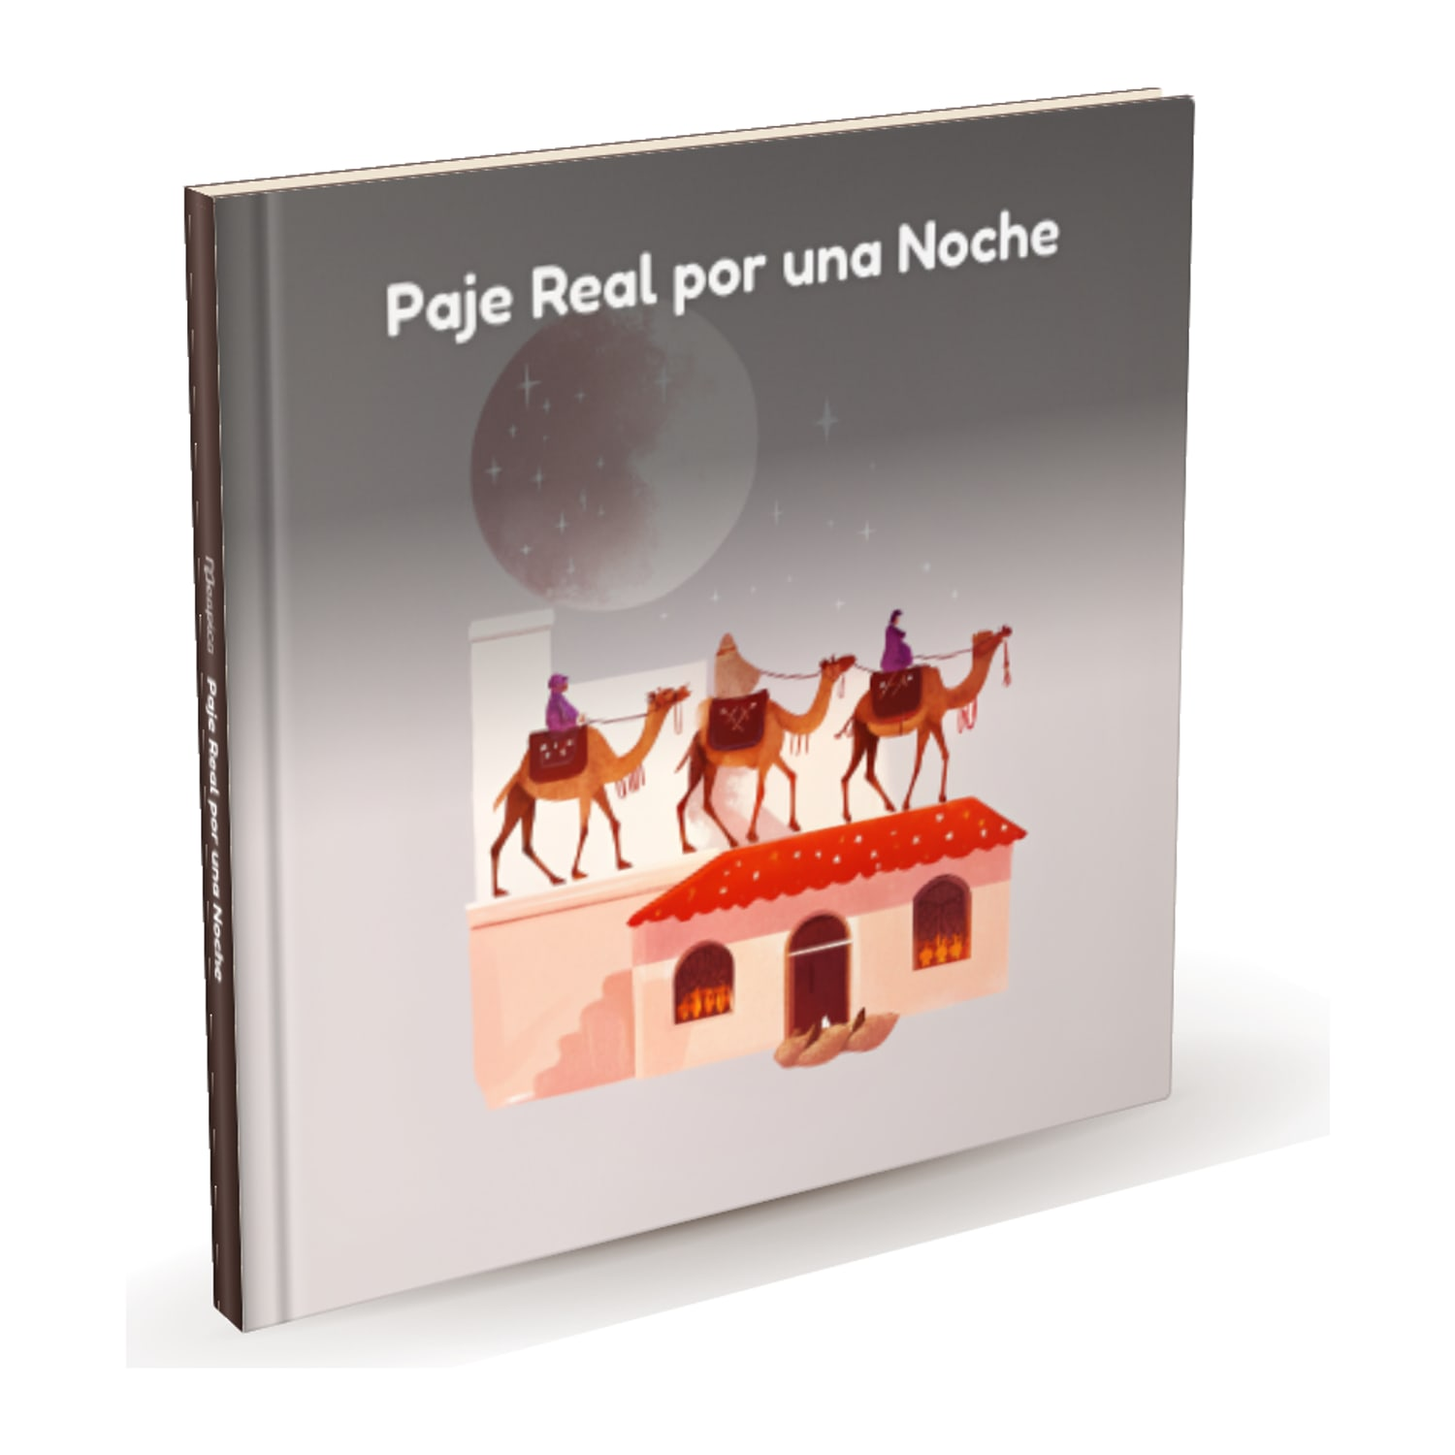
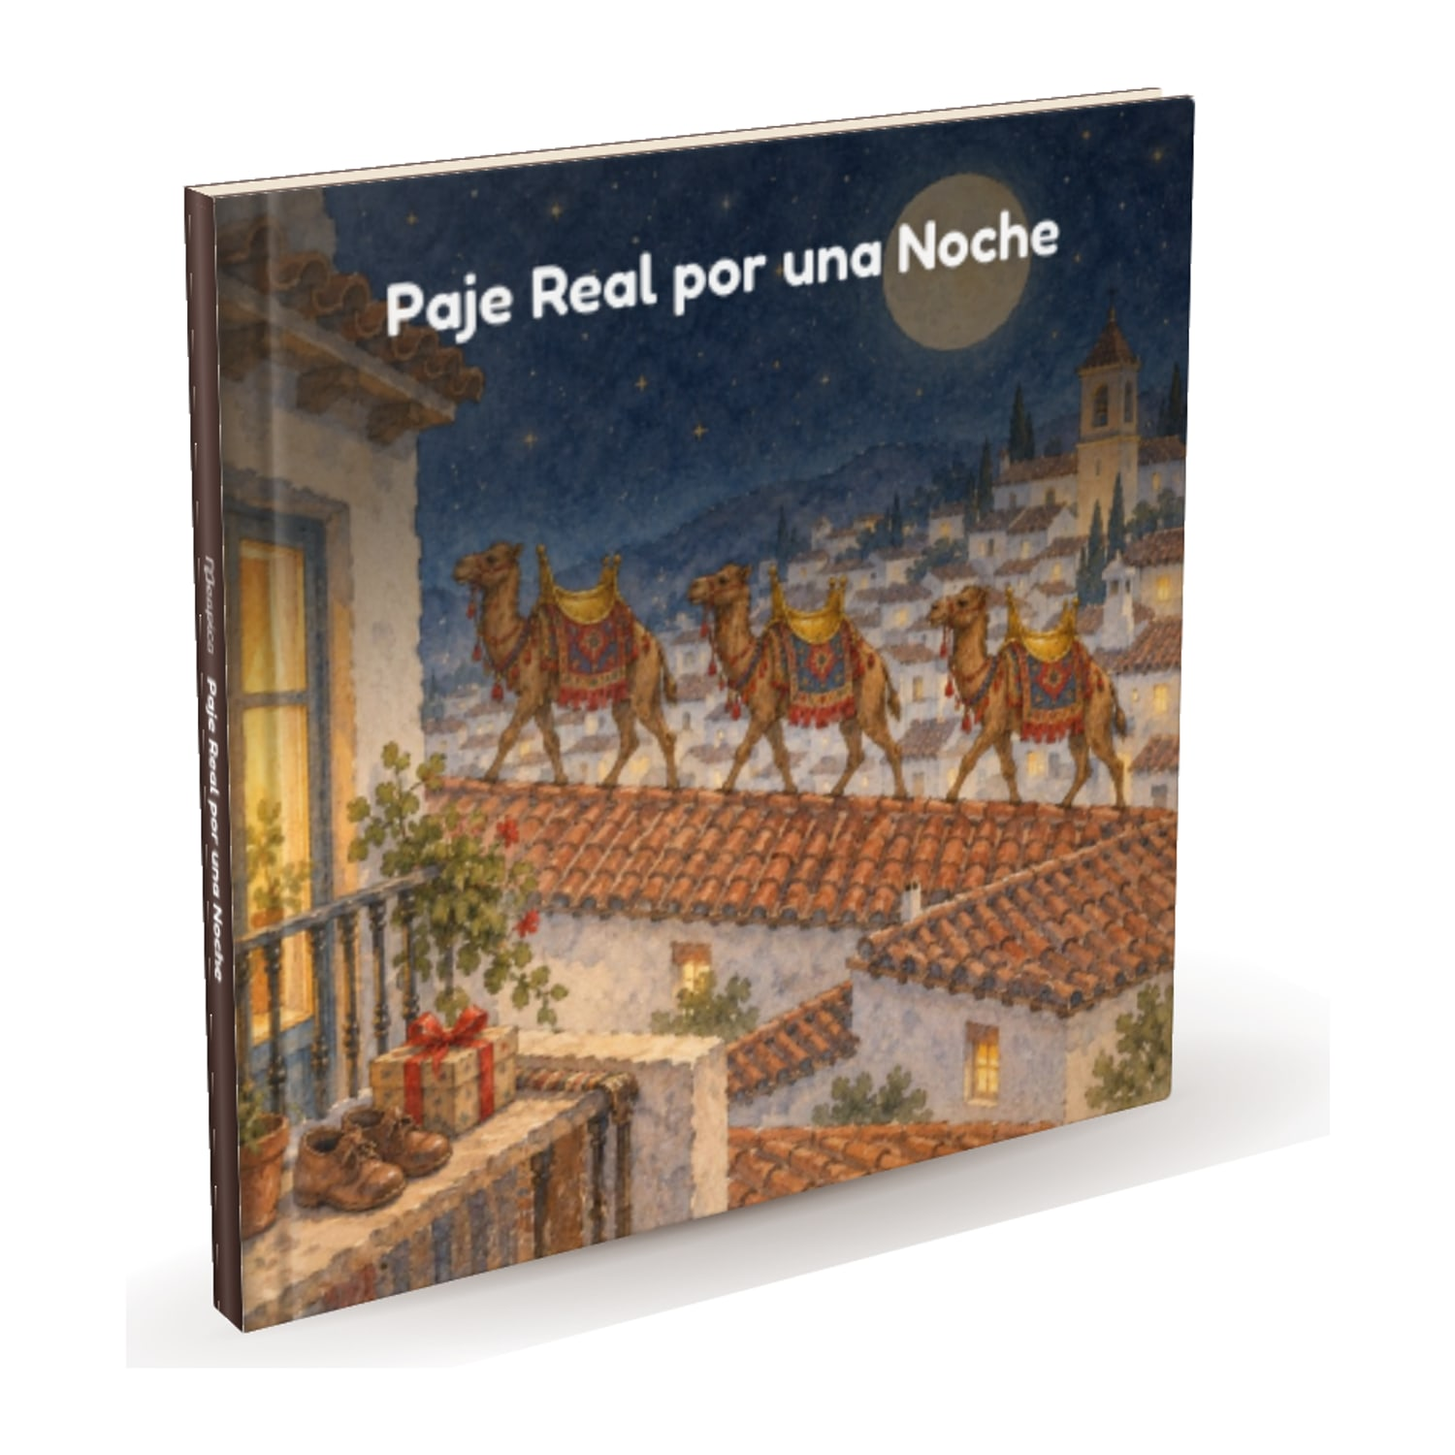
feat(seasonal): Papá Noel and Tió editions on the Christmas page and in the feed
- SeasonalEdition (was ReyesEdition) takes the world and its copy key;
  /gifts/christmas leads with Papá Noel and shows the Papá Noel and Tió
  editions with both printed prices (VAT included)
- Merchant feed: SEASONAL_FEED_WORLDS (christmas, tio, reyes), 21 items in
  season; feed images for both new worlds, check-merchant-feed covers every
  seasonal edition and its window
- Reyes world cover repainted in the watercolour style of the new covers
- es/ca/en/fr copy, docs

diff --git a/src/components/seo-landing/SeasonalEdition.tsx b/src/components/seo-landing/SeasonalEdition.tsx
@@ -14,23 +14,36 @@ const INTL_LOCALE: Record<string, string> = { es: "es-ES", ca: "ca-ES", en: "en-
 const PRINTED_FORMATS = ["hardcover", "softcover"] as const;
 
 /**
- * The seasonal Reyes edition as a product on the Reyes gift page: the story, who it is
- * for, until when it can be ordered and the price of each printed format (VAT included).
+ * A seasonal edition (Reyes, Papá Noel, Tió) as a product on its gift page: the story, who it
+ * is for, until when it can be ordered and the price of each printed format (VAT included).
  * Every fact comes from the catalogue (STORY_TEMPLATES, PRICING); the copy is
- * seo.gifts.three-kings.edition. The caller renders it only while the world is on sale
+ * `seo.gifts.<gift>.<copyKey>`. The caller renders it only while the world is on sale
  * (isTemplateAvailable), so it disappears by itself the day after `availableUntil`.
- * It is also the landing page of the Reyes items in the Merchant feed (lib/merchant-feed.ts):
- * keep the story title and both printed prices visible here.
+ * It is also the landing page of the edition's items in the Merchant feed (lib/merchant-feed.ts,
+ * SEASONAL_FEED_WORLDS): keep the story title and both printed prices visible here.
  */
-export default async function ReyesEdition({ locale }: { locale: string }) {
-  const template = getTemplateConfig(REYES_TEMPLATE_ID);
+export default async function SeasonalEdition({
+  locale,
+  templateId,
+  gift,
+  copyKey = "edition",
+  tinted = false,
+}: {
+  locale: string;
+  templateId: string;
+  gift: string;
+  copyKey?: string;
+  /** White band with the art on the right, to alternate with a paper edition on the same page. */
+  tinted?: boolean;
+}) {
+  const template = getTemplateConfig(templateId);
   if (!template) return null;
-  const t = await getTranslations({ locale, namespace: "seo.gifts.three-kings.edition" });
+  const t = await getTranslations({ locale, namespace: `seo.gifts.${gift}.${copyKey}` });
   const td = await getTranslations({ locale, namespace: "data" });
   const tp = await getTranslations({ locale, namespace: "pricing" });
   const th = await getTranslations({ locale, namespace: "hero" });
 
-  const title = td(`templates.${REYES_TEMPLATE_ID}.title`);
+  const title = td(`templates.${templateId}.title`);
   const until = template.availableUntil
     ? new Intl.DateTimeFormat(INTL_LOCALE[locale] ?? "es-ES", { timeZone: "UTC", day: "numeric", month: "long" }).format(
         new Date(`${template.availableUntil}T00:00:00Z`),
@@ -38,9 +51,23 @@ export default async function ReyesEdition({ locale }: { locale: string }) {
     : null;
 
   return (
-    <section id="reyes-edition" aria-labelledby="reyes-edition-title" className="border-t border-line bg-paper px-4 py-16 sm:px-6 sm:py-24">
-      <div className="mx-auto grid max-w-[1200px] items-center gap-8 md:grid-cols-[minmax(0,5fr)_minmax(0,7fr)] md:gap-12 lg:gap-16">
-        <div className="relative mx-auto aspect-square w-full max-w-[300px] overflow-hidden rounded-2xl border-2 border-line bg-line md:max-w-none">
+    <section
+      id={`${templateId}-edition`}
+      aria-labelledby={`${templateId}-edition-title`}
+      className={cx("border-t border-line px-4 py-16 sm:px-6 sm:py-24", tinted ? "bg-surface" : "bg-paper")}
+    >
+      <div
+        className={cx(
+          "mx-auto grid max-w-[1200px] items-center gap-8 md:gap-12 lg:gap-16",
+          tinted ? "md:grid-cols-[minmax(0,7fr)_minmax(0,5fr)]" : "md:grid-cols-[minmax(0,5fr)_minmax(0,7fr)]",
+        )}
+      >
+        <div
+          className={cx(
+            "relative mx-auto aspect-square w-full max-w-[300px] overflow-hidden rounded-2xl border-2 border-line bg-line md:max-w-none",
+            tinted && "md:order-last",
+          )}
+        >
           <Image src={template.image} alt={t("imageAlt", { title })} fill sizes="(max-width: 768px) 300px, 480px" className="object-cover" />
           <span className="absolute left-2.5 top-2.5 rounded-full bg-white/95 px-2.5 py-1 text-xs font-bold text-ink-soft shadow-sm tabular-nums">
             {td("ageRange", { min: template.ageMin, max: template.ageMax })}
@@ -49,7 +76,7 @@ export default async function ReyesEdition({ locale }: { locale: string }) {
 
         <div>
           <p className={kicker}>{t("kicker")}</p>
-          <Heading id="reyes-edition-title" as="h2" size="page" className="mt-2 text-balance">
+          <Heading id={`${templateId}-edition-title`} as="h2" size="page" className="mt-2 text-balance">
             {t("heading", { title })}
           </Heading>
           <p className="mt-4 max-w-prose text-base leading-relaxed text-ink-body sm:text-lg sm:leading-[1.75]">{t("text")}</p>
@@ -80,7 +107,7 @@ export default async function ReyesEdition({ locale }: { locale: string }) {
           </ul>
 
           <Link
-            href={`/create?template=${REYES_TEMPLATE_ID}&from=seo`}
+            href={`/create?template=${templateId}&from=seo`}
             className={cx(buttonClass({ className: "mt-7 min-h-14 w-full sm:w-auto sm:px-8" }))}
           >
             {t("cta")}

diff --git a/src/components/seo-landing/SeoLandingPage.tsx b/src/components/seo-landing/SeoLandingPage.tsx
@@ -31,7 +31,7 @@ import { factParams } from "@/lib/product-facts";
 import { isToolLocale, toolPath } from "@/lib/tools/registry";
 import { GUIDES, GUIDE_LINK_LABELS, contextGuides } from "@/lib/guides";
 import { Breadcrumbs, PageHero, kicker, marketingH1, marketingLead } from "./MarketingHeader";
-import ReyesEdition, { REYES_TEMPLATE_ID } from "./ReyesEdition";
+import SeasonalEdition, { REYES_TEMPLATE_ID } from "./SeasonalEdition";
 
 const BASE_URL = "https://meapica.es";
 
@@ -40,6 +40,12 @@ const FALLBACK_FAQ_ORDER = [2, 3, 1, 4] as const;
 // Each page carries its own questions: seo.{type}.{slug}.faq.q1/a1 … q4/a4.
 const PAGE_FAQ_SLOTS = [1, 2, 3, 4] as const;
 const INTL_LOCALE: Record<string, string> = { es: "es-ES", ca: "ca-ES", en: "en-GB", fr: "fr-FR" };
+
+/** Seasonal editions on the Christmas gift page, in this order (copy: seo.gifts.christmas.<copyKey>). */
+const CHRISTMAS_EDITIONS = [
+  { templateId: "christmas", copyKey: "edition" },
+  { templateId: "tio", copyKey: "editionTio" },
+] as const;
 
 // Gift pages that link to the Christmas / Reyes delivery deadlines.
 const SEASONAL_GIFT_SLUGS = new Set(["christmas", "three-kings"]);
@@ -74,8 +80,14 @@ export default async function SeoLandingPage({ type, slug, locale }: Props) {
   // Reyes gift page, while the seasonal Reyes edition can be ordered: that story leads the page
   // (hero cover, its own product block, first card). Same card count as the other gift pages.
   const reyesOnSale = type === "gifts" && slug === "three-kings" && isTemplateAvailable(REYES_TEMPLATE_ID, today);
+  // Christmas gift page: the Papá Noel and Tió editions while on sale (same rule, two stories).
+  const christmasEditions =
+    type === "gifts" && slug === "christmas"
+      ? CHRISTMAS_EDITIONS.filter((e) => isTemplateAvailable(e.templateId, today))
+      : [];
+  const seasonIds = reyesOnSale ? [REYES_TEMPLATE_ID] : christmasEditions.map((e) => e.templateId);
   const evergreenIds = featuredTemplateIds(type, slug);
-  const featured = (reyesOnSale ? [REYES_TEMPLATE_ID, ...evergreenIds.slice(0, -1)] : evergreenIds)
+  const featured = [...seasonIds, ...evergreenIds.slice(0, Math.max(0, evergreenIds.length - seasonIds.length))]
     .map((id) => STORY_TEMPLATES.find((tpl) => tpl.id === id))
     .filter((tpl): tpl is (typeof STORY_TEMPLATES)[number] => Boolean(tpl));
 
@@ -234,7 +246,10 @@ export default async function SeoLandingPage({ type, slug, locale }: Props) {
           </div>
         </PageHero>
 
-        {reyesOnSale && <ReyesEdition locale={locale} />}
+        {reyesOnSale && <SeasonalEdition locale={locale} templateId={REYES_TEMPLATE_ID} gift="three-kings" />}
+        {christmasEditions.map((e, i) => (
+          <SeasonalEdition key={e.templateId} locale={locale} templateId={e.templateId} gift="christmas" copyKey={e.copyKey} tinted={i % 2 === 0} />
+        ))}
 
         {/* Body copy + what makes it special */}
         <section aria-labelledby="seo-body-title" className="border-y border-line bg-surface px-4 py-16 sm:px-6 sm:py-24">

diff --git a/src/lib/merchant-feed.ts b/src/lib/merchant-feed.ts
@@ -76,6 +76,8 @@ const WORLD_SUBJECT: Record<string, string> = {
   forest: "del bosque mágico",
   safari: "de safari",
   reyes: "de Reyes Magos",
+  christmas: "de Navidad con Papá Noel",
+  tio: "del Tió de Nadal",
 };
 
 export interface FeedWorld {
@@ -85,15 +87,32 @@ export interface FeedWorld {
   templateId: string;
   /** Landing page (no locale prefix) that shows this world and both printed prices. */
   path: string;
+  /**
+   * Seasonal editions only: the gift page (seo.gifts.<gift>) and its copy key (<key>) of the
+   * SeasonalEdition block that shows this story with both printed prices.
+   */
+  edition?: { gift: string; key: string };
 }
 
 /** Seasonal Reyes edition ("Paje Real por una Noche"): shown on the Reyes gift page. */
-export const REYES_FEED_WORLD: FeedWorld = { key: "reyes", templateId: "reyes", path: seoPath("gifts", "three-kings") };
+export const REYES_FEED_WORLD: FeedWorld = {
+  key: "reyes",
+  templateId: "reyes",
+  path: seoPath("gifts", "three-kings"),
+  edition: { gift: "three-kings", key: "edition" },
+};
+
+/** Seasonal editions, in calendar order. Papá Noel and the Tió are both shown on the Christmas gift page. */
+export const SEASONAL_FEED_WORLDS: FeedWorld[] = [
+  { key: "christmas", templateId: "christmas", path: seoPath("gifts", "christmas"), edition: { gift: "christmas", key: "edition" } },
+  { key: "tio", templateId: "tio", path: seoPath("gifts", "christmas"), edition: { gift: "christmas", key: "editionTio" } },
+  REYES_FEED_WORLD,
+];
 
 /** Every world that can have feed items (images are built for all of them, in or out of season). */
 export const FEED_WORLDS: FeedWorld[] = [
   ...Object.entries(THEME_TEMPLATE).map(([slug, templateId]) => ({ key: slug, templateId, path: seoPath("themes", slug) })),
-  REYES_FEED_WORLD,
+  ...SEASONAL_FEED_WORLDS,
 ];
 
 /** Public paths of a world's feed images (built by scripts/build-merchant-feed-images.mts). */

diff --git a/docs/product-spec.md b/docs/product-spec.md
@@ -90,7 +90,7 @@ A seasonal world lives in `STORY_TEMPLATES` with `seasonal: true` and an optiona
 - **Featured (2026-11-17, approved design "Meapica Navidad 2026"):** the world picker shows available seasonal worlds in their own row first ("Cuentos de Navidad · Solo hasta el 6 de enero", 3:2 art, badge "Nuevo" for christmas/tio and "De temporada" for reyes, "Impreso a tiempo si lo pides antes del …" from `earliestPrintedCutoff`), then "Todo el año"; seasonal worlds are listed in calendar order (christmas, tio, reyes = their order in `STORY_TEMPLATES`). The home season block shows the three worlds as cards opening `/create?template=<id>&from=home`, with the gift guides and the delivery page as links under them; during the season the hero title is `hero.titleSeason` with a holly sprig on the cover, and the season banner is pine green (`--season`).
 - **Papá Noel and the Tió also have a fixed look** (`TEMPLATE_FIXED_CAST.christmas` / `.tio`; name matching works within the member's own kind, so "el tío Pepe" never becomes the Tió and an elf never becomes Papá Noel; `group` is optional and only reyes has one).
 - **The Three Kings look the same in every book:** `src/lib/ai/template-cast.ts` (`TEMPLATE_FIXED_CAST.reyes`) — canonical ids/labels/visuals (Melchor: white beard, crimson + gold, ermine; Gaspar: auburn beard, emerald + gold; Baltasar: a Black man, short black beard, purple turban under a sapphire crown, royal blue + purple). The Book Plan prompt gets a FIXED CAST section and `normalizeBible` overwrites whatever the model wrote (by id, else by name for people; a single "Three Kings" group entry gets all three looks), so sheets, scenes, the frozen `imagePlan`, the final run and the QA judge use the same bytes.
-- Assets: covers `public/images/templates/christmas.jpg` and `tio.jpg` were painted with the book's own engine (gpt-image-2.5-flare medium, watercolour style; Recraft drew a child instead of the Tió), the prompts are kept in `scripts/generate-template-images.mjs`; path art `public/images/path/{christmas,tio}/` (`scripts/generate-path-art.mjs`, `AUTO_PROMPT_TREES`). Reyes: cover `public/images/templates/reyes.jpg` (Recraft, `scripts/generate-template-images.mjs reyes`), path art `public/images/path/reyes/` (`scripts/generate-path-art.mjs`, 39/39 since 2026-10-27; a missing seed falls back to the gradient + icon card).
+- Assets: covers `public/images/templates/christmas.jpg` and `tio.jpg` were painted with the book's own engine (gpt-image-2.5-flare medium, watercolour style; Recraft drew a child instead of the Tió), the prompts are kept in `scripts/generate-template-images.mjs`; path art `public/images/path/{christmas,tio}/` (`scripts/generate-path-art.mjs`, `AUTO_PROMPT_TREES`). Reyes: cover `public/images/templates/reyes.jpg` (Recraft until 2026-11-17, then repainted in the same watercolour style as the two Christmas covers; feed images rebuilt), path art `public/images/path/reyes/` (`scripts/generate-path-art.mjs`, 39/39 since 2026-10-27; a missing seed falls back to the gradient + icon card).
 - Check: `npx tsx src/lib/story-trees/trees.check.mts` (every tree valid; every seasonal world 39 options in 4 locales with path-art descs free of people or lettering (per-world people regex `SEASONAL_PEOPLE`), windows, evergreen count = 10, Kings / Papá Noel / Tió fixed casts).
 
 ## Personalization Variables (Customer Input)
@@ -155,7 +155,8 @@ All prices above (and the base book prices) are final VAT-inclusive consumer pri
 ## Christmas / Reyes 2026 surfaces (2026-11-10)
 
 - **Home block** (`src/components/seasonal/HomeSeasonBlock.tsx`, after "Cómo funciona"): H2 "Cuentos personalizados para regalar en Navidad y Reyes" and three link cards to `/gifts/christmas`, `/gifts/three-kings` and `/christmas-delivery`, each with this season's printed order-by date (10 Dec / 22 Dec, from `earliestPrintedCutoff`; once a date passes the card shows "PDF Digital · Siempre a tiempo"). Copy in `seo.home.season` (server-only namespace, 4 locales). Renders nothing outside 1 Nov – 5 Jan. **Temporary: remove in January 2027** (one import + one line in `src/app/[locale]/page.tsx`, the file, the messages).
-- **Reyes page = "Cuento personalizado de Reyes Magos"** (`/[locale]/gifts/three-kings`): es title "Cuento personalizado de Reyes Magos para niños | Meapica", H1 "Cuento personalizado de Reyes Magos con su nombre y su cara" (ca "Conte personalitzat de Reis…"). While the seasonal world is on sale (`isTemplateAvailable("reyes")`, until 6 Jan) the page leads with it: hero cover of the Reyes world, the block `ReyesEdition` (`src/components/seo-landing/ReyesEdition.tsx`: story «Paje Real por una Noche», ages, "Se puede pedir hasta el 6 de enero", hardcover and softcover price each with "IVA incluido", CTA `/create?template=reyes`) and the Reyes card first in the worlds grid. After 6 Jan all three disappear by themselves and the page is the evergreen gift page again. Copy: `seo.gifts.three-kings.edition`.
+- **Reyes page = "Cuento personalizado de Reyes Magos"** (`/[locale]/gifts/three-kings`): es title "Cuento personalizado de Reyes Magos para niños | Meapica", H1 "Cuento personalizado de Reyes Magos con su nombre y su cara" (ca "Conte personalitzat de Reis…"). While the seasonal world is on sale (`isTemplateAvailable("reyes")`, until 6 Jan) the page leads with it: hero cover of the Reyes world, the block `SeasonalEdition` (`src/components/seo-landing/SeasonalEdition.tsx`, generic since 2026-11-17: story «Paje Real por una Noche», ages, "Se puede pedir hasta el 6 de enero", hardcover and softcover price each with "IVA incluido", CTA `/create?template=reyes`) and the Reyes card first in the worlds grid. After 6 Jan all three disappear by themselves and the page is the evergreen gift page again. Copy: `seo.gifts.three-kings.edition`.
+- **Christmas page editions (2026-11-17):** while on sale, `/[locale]/gifts/christmas` leads with the Papá Noel world (hero, first card) and shows two `SeasonalEdition` blocks, Papá Noel (`seo.gifts.christmas.edition`) then Tió (`seo.gifts.christmas.editionTio`), each with the story, ages, "hasta el 6 de enero", both printed prices with IVA incluido and a CTA to its world. They are also the landing page of their Merchant feed items.
 - **en / fr are `noindex, follow`** and out of hreflang and the sitemap until January 2027 (we only ship to Spain): `NOINDEX_LOCALES` in `src/lib/seo-index.ts`, see `docs/stack.md` › Search.
 - **Internal anchors to the home:** the gifts hub intro links to the home with "cuentos personalizados para niños" (es), and the themes hub intro with "cuentos personalizados" / "contes personalitzats" (es, ca), so the hubs stop competing with the home for the head terms.
 - **Merchant feed:** one item per story world with a landing page and printed format + the Reyes edition (17 items in season), see `docs/stack.md` › Product feeds.

diff --git a/docs/stack.md b/docs/stack.md
@@ -808,14 +808,14 @@ after the end. The linked landing pages show both prices (home hero/quality/FAQ,
   free, ES postcodes 01000-34999, 36000-37999, 39000-50999 (no Canarias/Ceuta/Melilla), handling 2-4 + transit 5-6 business days
   (= the 7-10 day promise; the split is an estimate). Because the feed sends a shipping price, Merchant Center ignores account
   shipping settings for these items.
-- **Story-world items (2026-11-10): 17 items in season, 15 out of it.** On top of the 3 format items, one item per world with
+- **Story-world items (2026-11-10; Papá Noel and Tió editions added 2026-11-17): 21 items in season, 15 out of it.** On top of the 3 format items, one item per world with
   its own landing page and printed format: `FEED_WORLDS` = every slug of `THEME_TEMPLATE` (dinosaurs, space, pirates,
-  superheroes, magic-forest, safari → `/es/themes/<slug>`) + the seasonal Reyes edition (`/es/gifts/three-kings`, block
-  `ReyesEdition`). Ids `meapica-<world>-<hardcover|softcover>`, title "Cuento personalizado de dinosaurios con su nombre ·
+  superheroes, magic-forest, safari → `/es/themes/<slug>`) + `SEASONAL_FEED_WORLDS` (Papá Noel `christmas` and Tió `tio`, both on `/es/gifts/christmas`; Reyes on `/es/gifts/three-kings`;
+  block `SeasonalEdition`, copy `seo.gifts.<gift>.<edition|editionTio>`). Ids `meapica-<world>-<hardcover|softcover>`, title "Cuento personalizado de dinosaurios con su nombre ·
   Tapa dura 20 × 20 cm (incluye PDF)", description opens with the story title and synopsis, ages from the template. Same price,
   shipping and attributes as the format items. Rules kept by `check-merchant-feed.mts`: an item exists only if its landing page
-  names the world and quotes both printed prices (`{hardcover}` / `{softcover}` in its copy), and the Reyes items are listed
-  only while `isTemplateAvailable("reyes")` (last order day 6 Jan; gone on the 7th without a deploy). Chef, castle, inventor
+  names the world and quotes both printed prices (`{hardcover}` / `{softcover}` in its copy), and each seasonal edition is listed
+  only while `isTemplateAvailable(<id>)` (last order day 6 Jan; gone on the 7th without a deploy). Chef, castle, inventor
   and candy have no theme page yet, so no item: adding a slug to `THEME_TEMPLATE` (+ its `WORLD_SUBJECT` title fragment and
   images) adds its two items. No `item_group_id`: hardcover / softcover is not one of Google's variant attributes.
 - **Images:** `public/images/feed/*.jpg` 1500 × 1500, the Noa showcase book in the site's own mockup + its cover art, with the IPTC

diff --git a/docs/roadmap.md b/docs/roadmap.md
@@ -21,7 +21,6 @@ Shipped for the Christmas / Reyes 2026 campaign after the SEO audit of 2026-11-1
   or while a seasonal world is available). Clean-up only: `Hero` `season` prop, `src/components/seasonal/HollySprig.tsx`, the
   `--season` token if nothing else uses it.
 - [ ] Before the next season (October 2027): bump `availableUntil` of the `christmas` and `tio` worlds too (both added 2026-11-17).
-  Open for them: Merchant feed items and a Christmas edition block on `/gifts/christmas` like the Reyes one (`ReyesEdition`).
 - [ ] Before the next season (October 2027): bump `availableUntil` of the Reyes world in `src/lib/create-store.ts`; the Reyes block on
   `/gifts/three-kings` and its two Merchant feed items come back by themselves.
 - [ ] After the deploy of 2026-11-10 (owner / browser-session): Merchant Center › fetch the feed again and check the 14 new items are
